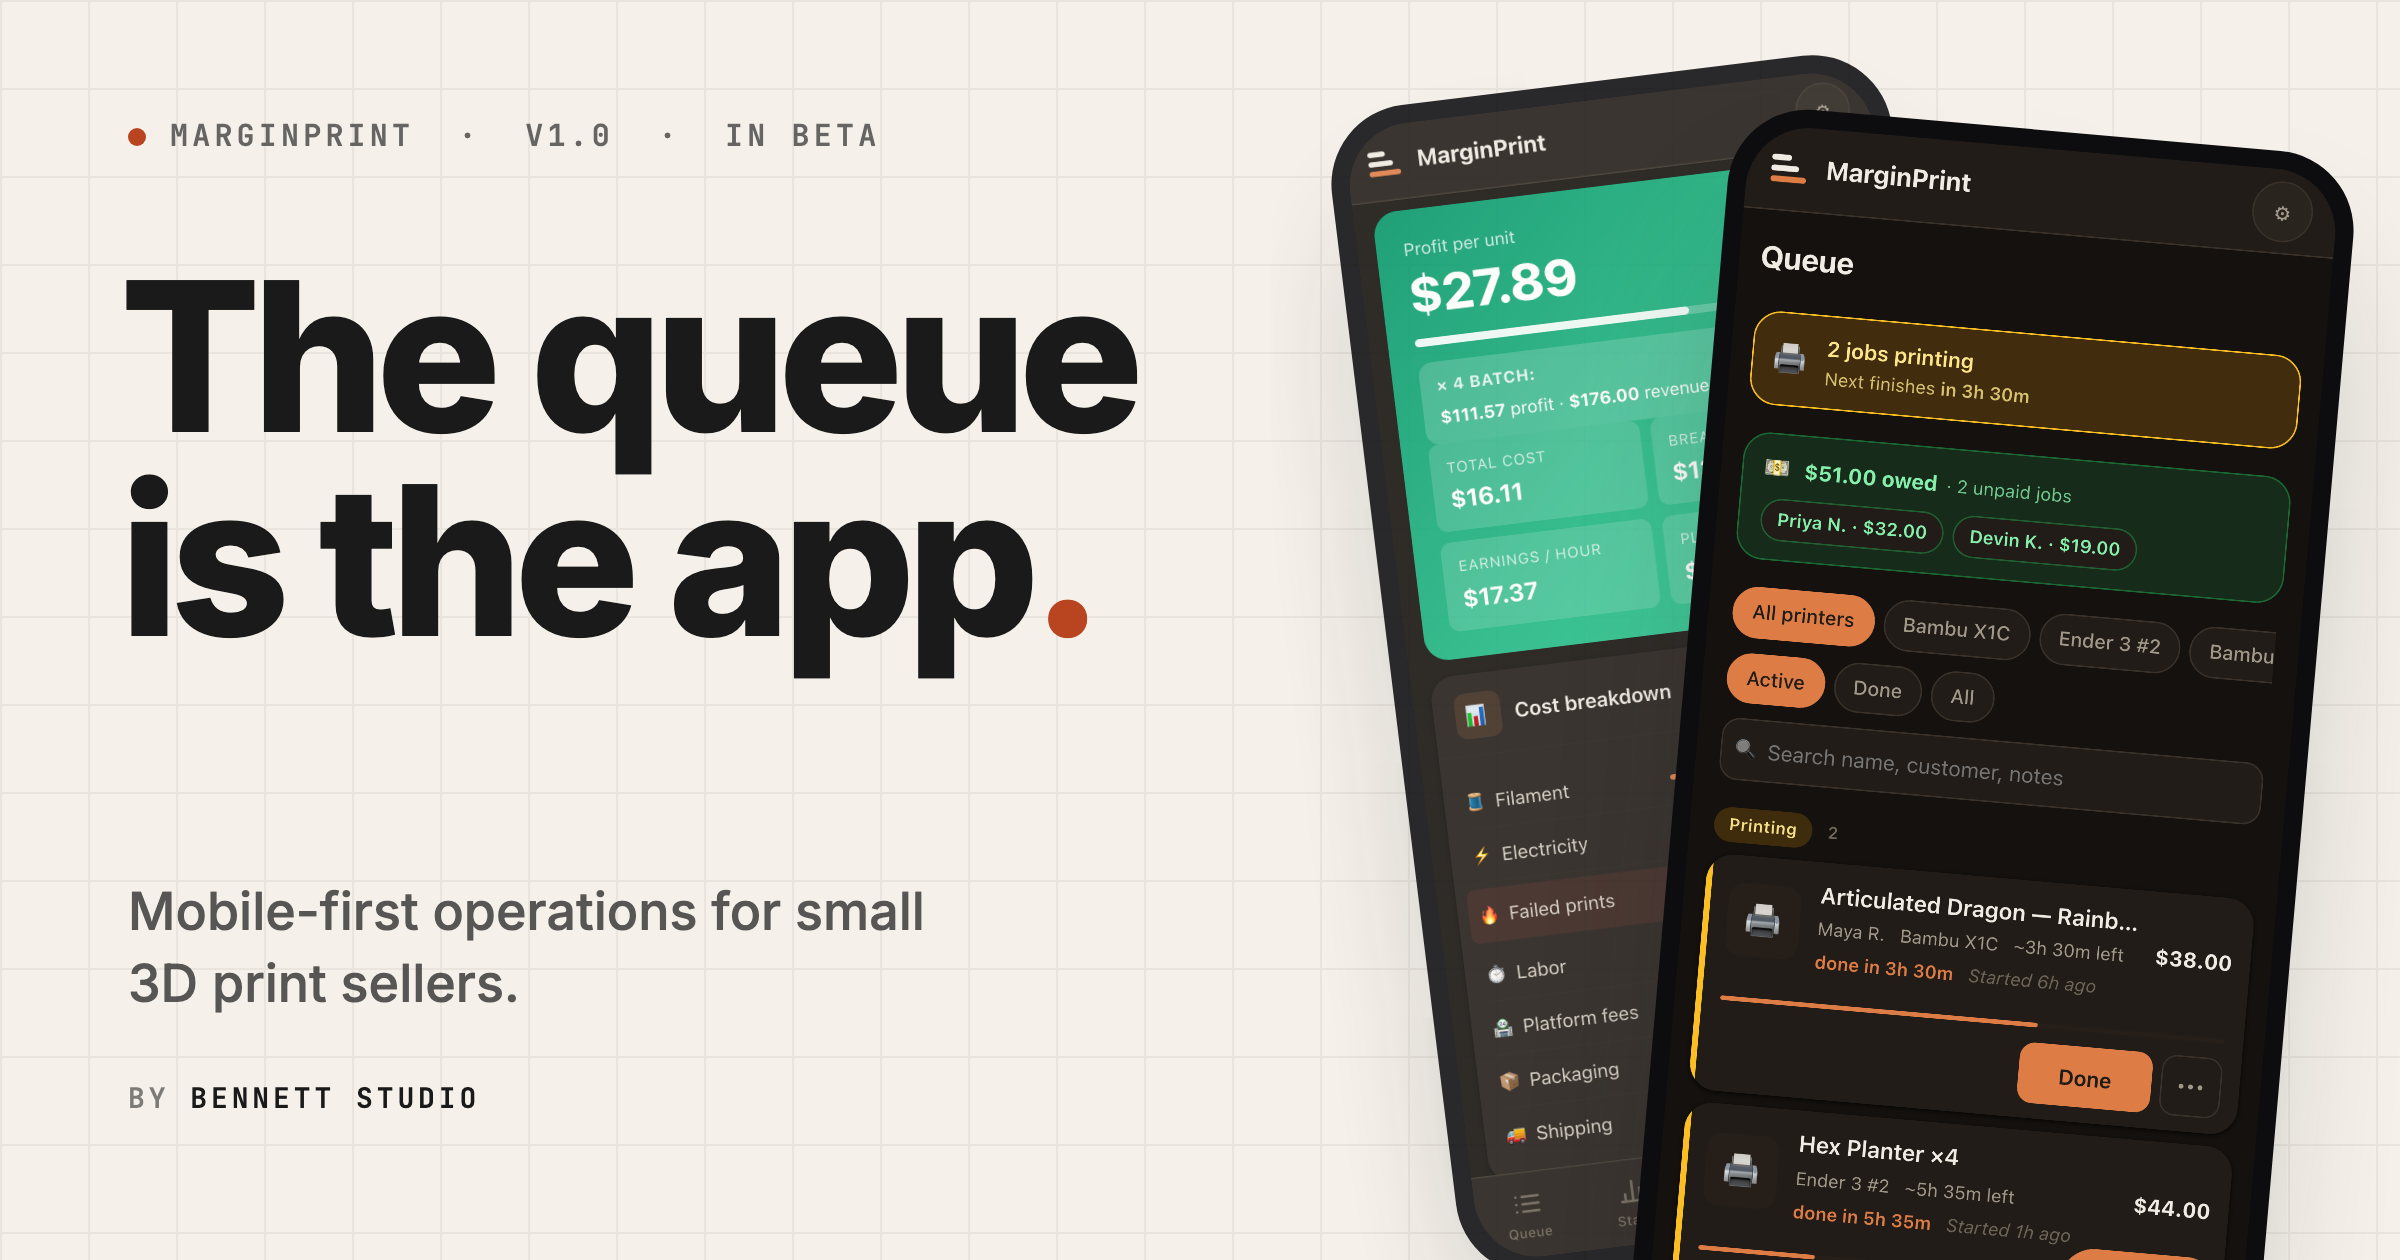
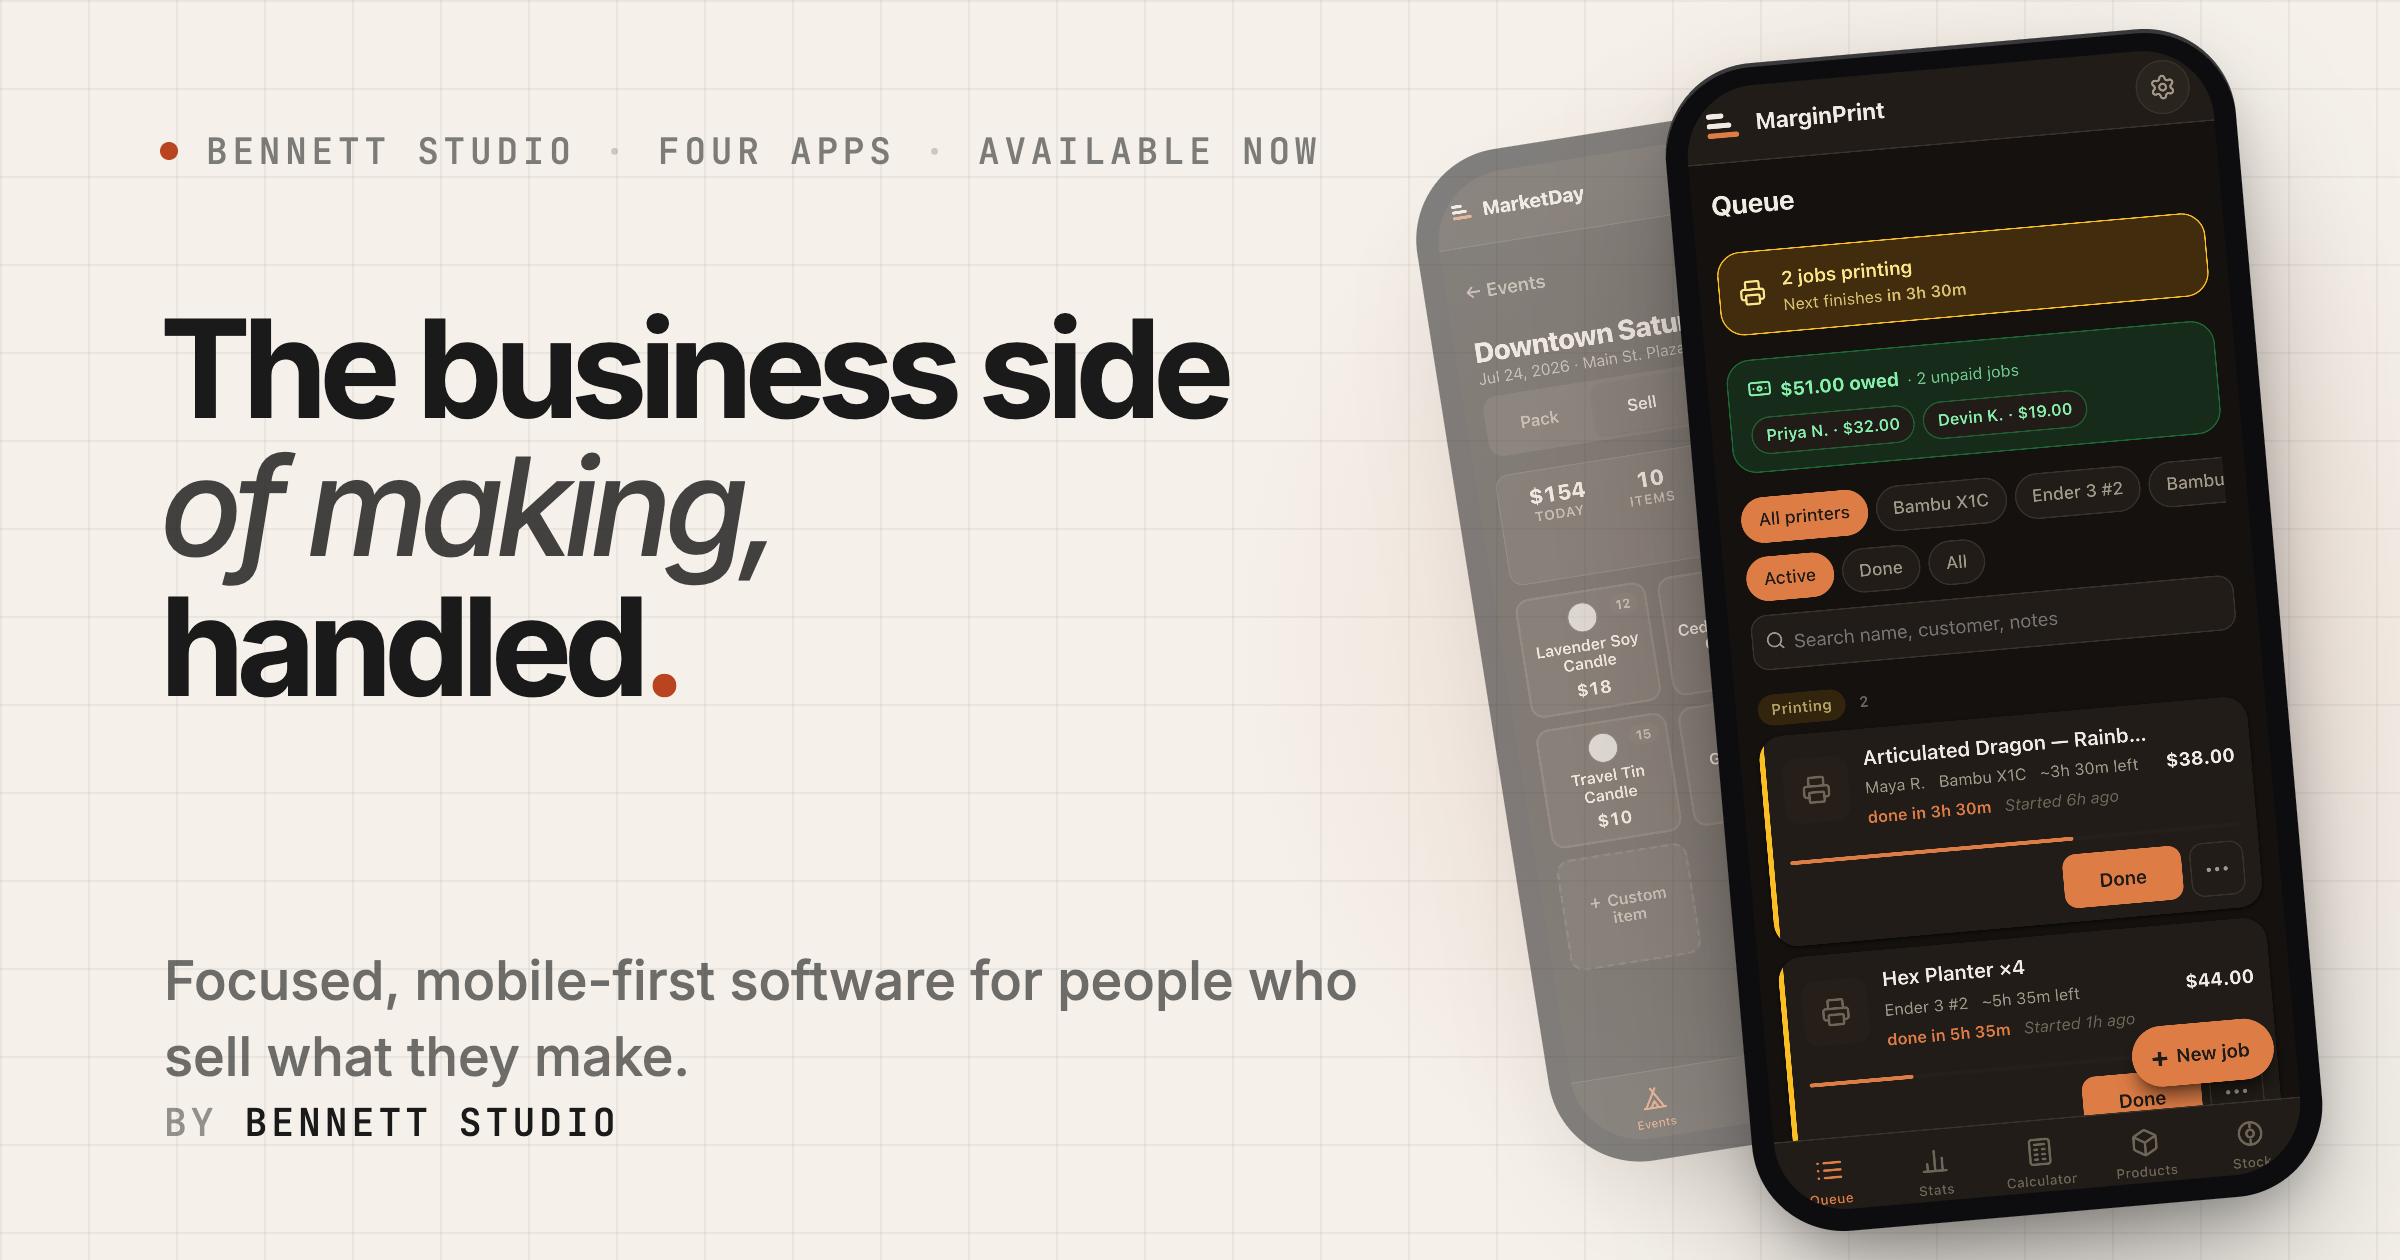
site: give every route its own Open Graph card
All four apps shared /og.png, a MarginPrint queue composite, so a MakerBooks or
BenchStock link unfurled with a 3D-print queue. Prerendering made per-route head
metadata real, so the image can now vary too.

scripts/og-template.html is tokenised and scripts/og-shots.mjs renders one
1200x630 card per route from it, reusing the existing composition (bone canvas,
grid, copper glow, two phone mockups) with that app's real screenshots.
ogImage/ogImageAlt join ROUTE_META in site-meta.js; prerender.mjs swaps
og:image, og:image:alt and twitter:image per route, and emits them as absolute
URLs — several scrapers and every email client refuse to resolve a relative
og:image, which the previous "/og.png" was.

The renderer audits each card before writing it, because these are typeset
blind and the first pass produced cards that looked plausible but were broken:
a headline that wrapped inside its block gained a line the layout hadn't
budgeted for and collided with the subhead, and text ran under the phone
mockups. It now measures real line boxes via a Range (getClientRects on the
block is one border box and reveals neither) and fails the run on an unexpected
wrap, a headline/subhead collision, or any text crossing the mockup's left edge.

diff --git a/scripts/og-template.html b/scripts/og-template.html
@@ -2,6 +2,11 @@
 <html lang="en">
 <head>
 <meta charset="utf-8" />
+<!--
+  Tokenised OG card, 1200×630. Rendered once per route by scripts/og-shots.mjs,
+  which substitutes the {{TOKENS}} and screenshots it with Playwright at 2x.
+  Do not open this file directly — the tokens only resolve through that script.
+-->
 <link rel="preconnect" href="https://fonts.googleapis.com" />
 <link rel="preconnect" href="https://fonts.gstatic.com" crossorigin />
 <link href="https://fonts.googleapis.com/css2?family=Inter:ital,wght@0,500;0,600;0,700;0,800;1,500&family=JetBrains+Mono:wght@500;600&display=swap" rel="stylesheet" />
@@ -34,19 +39,29 @@
     display:flex; align-items:center; gap:14px;
     font-family:'JetBrains Mono', monospace; font-size:18px;
     letter-spacing:2.4px; color:rgba(26,26,26,0.55);
+    white-space:nowrap;
   }
   .eyebrow .dot { width:9px; height:9px; border-radius:50%; background:var(--copper); }
   .eyebrow .sep { opacity:0.35; }
 
+  /* Width is per-card and matters: if a line wraps inside this block it adds a
+     visual line the layout didn't budget for, and the headline runs into the
+     subhead. Keep {{HEADLINE_WIDTH}} wide enough that every line fits as
+     written, and use explicit <br/> for the breaks. */
   .headline {
-    position:absolute; left:80px; top:150px; width:640px;
+    position:absolute; left:80px; top:150px; width:{{HEADLINE_WIDTH}}px;
   }
-  .headline .l1 { font-size:118px; font-weight:700; letter-spacing:-4px; line-height:1.02; }
-  .headline .l2 { font-size:118px; font-weight:500; font-style:italic; letter-spacing:-4px; line-height:1.02; color:rgba(26,26,26,0.82); }
+  /* Font size is per-card: a three-line studio headline needs less than a
+     two-line app headline. Set by {{HEADLINE_SIZE}}. */
+  .headline .l1 {
+    font-size:{{HEADLINE_SIZE}}px; font-weight:700;
+    letter-spacing:-4px; line-height:1.02;
+  }
   .headline .l1 .accent { color:var(--copper); }
+  .headline .l1 .em { font-weight:500; font-style:italic; color:rgba(26,26,26,0.82); }
 
   .subhead {
-    position:absolute; left:82px; top:472px; width:600px;
+    position:absolute; left:82px; top:472px; width:620px;
     font-size:27px; line-height:1.4; color:rgba(26,26,26,0.62);
   }
 
@@ -58,7 +73,7 @@
 
   /* Phone mockup on the right */
   .phone {
-    position:absolute; right:96px; top:50%;
+    position:absolute; right:60px; top:50%;
     transform:translateY(-50%) rotate(-5deg);
     width:286px; height:586px;
     background:#0d0d10; border-radius:46px;
@@ -75,7 +90,7 @@
   .phone .screen img { width:100%; height:100%; object-fit:cover; object-position:top center; display:block; }
   /* a faint second phone peeking behind, for depth */
   .phone.back {
-    right:300px; width:250px; height:512px;
+    right:210px; width:250px; height:512px;
     transform:translateY(-50%) rotate(-9deg);
     opacity:0.5; filter:saturate(0.9);
     box-shadow:0 30px 60px -24px rgba(26,26,26,0.4);
@@ -89,29 +104,29 @@
 
     <div class="phone back">
       <div class="screen">
-        <img src="file:///Users/williambennett/print-calc/bennett-studio-site/site/public/screenshots/calculator-result.png" alt="" />
+        <img src="{{SHOT_BACK}}" alt="" />
       </div>
     </div>
     <div class="phone">
       <div class="screen">
-        <img src="file:///Users/williambennett/print-calc/bennett-studio-site/site/public/screenshots/queue.png" alt="" />
+        <img src="{{SHOT_FRONT}}" alt="" />
       </div>
     </div>
 
     <div class="eyebrow">
       <span class="dot"></span>
-      <span>MARGINPRINT</span>
+      <span>{{EYEBROW_A}}</span>
       <span class="sep">·</span>
-      <span>V0.4.2</span>
+      <span>{{EYEBROW_B}}</span>
       <span class="sep">·</span>
-      <span>IN BETA</span>
+      <span>AVAILABLE NOW</span>
     </div>
 
     <div class="headline">
-      <div class="l1">The queue<br/>is the app<span class="accent">.</span></div>
+      <div class="l1">{{HEADLINE}}</div>
     </div>
 
-    <div class="subhead">Mobile-first operations for small 3D&nbsp;print sellers.</div>
+    <div class="subhead">{{SUBHEAD}}</div>
 
     <div class="byline"><span class="by">BY</span> BENNETT STUDIO</div>
   </div>

diff --git a/src/site-meta.js b/src/site-meta.js
@@ -22,26 +22,36 @@ export const ROUTE_META = {
     title: 'Bennett Studio — independent software for makers',
     description: STUDIO_DESCRIPTION,
     ogTitle: 'Bennett Studio — software for makers',
+    ogImage: 'og.png',
+    ogImageAlt: 'Bennett Studio — four mobile-first apps for people who sell what they make.',
   },
   '/marginprint': {
     title: 'MarginPrint — mission control for 3D-print sellers · Bennett Studio',
     description:
       'MarginPrint is a mobile-first operations app for small 3D-print shops: a production queue, true per-print costs, quoting, and profit tracking. Works offline, no account needed. Free to start.',
+    ogImage: 'og-marginprint.png',
+    ogImageAlt: 'MarginPrint — the production queue and profit breakdown on a phone.',
   },
   '/marketday': {
     title: 'MarketDay — the offline-first booth companion · Bennett Studio',
     description:
       'MarketDay runs your market booth offline: pack lists, one-tap sales, and a show summary that tells you which shows actually made money. Free to start, no account needed.',
+    ogImage: 'og-marketday.png',
+    ogImageAlt: 'MarketDay — the quick-sale grid and show summary on a phone.',
   },
   '/benchstock': {
     title: 'BenchStock — true cost & materials for makers · Bennett Studio',
     description:
       'BenchStock tracks your materials and tells you what an item really costs to make — stock levels, reorder points, and landed cost. Mobile-first and offline. Free to start.',
+    ogImage: 'og-benchstock.png',
+    ogImageAlt: 'BenchStock — the materials list and cost dashboard on a phone.',
   },
   '/maker-books': {
     title: 'MakerBooks — bookkeeping & tax readiness for makers · Bennett Studio',
     description:
       'MakerBooks is bookkeeping built for makers: income and expenses in, a Schedule C view out, ready before tax season. No spreadsheets, works offline. Free to start.',
+    ogImage: 'og-makerbooks.png',
+    ogImageAlt: 'MakerBooks — the profit dashboard and Schedule C view on a phone.',
   },
 }
 
